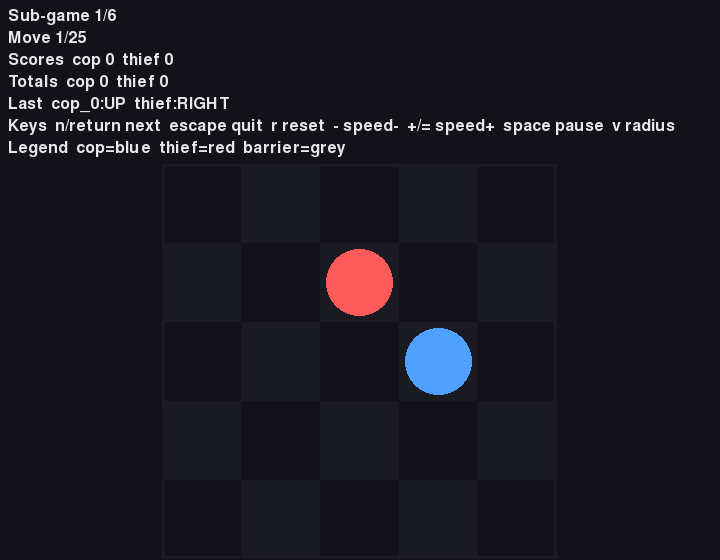
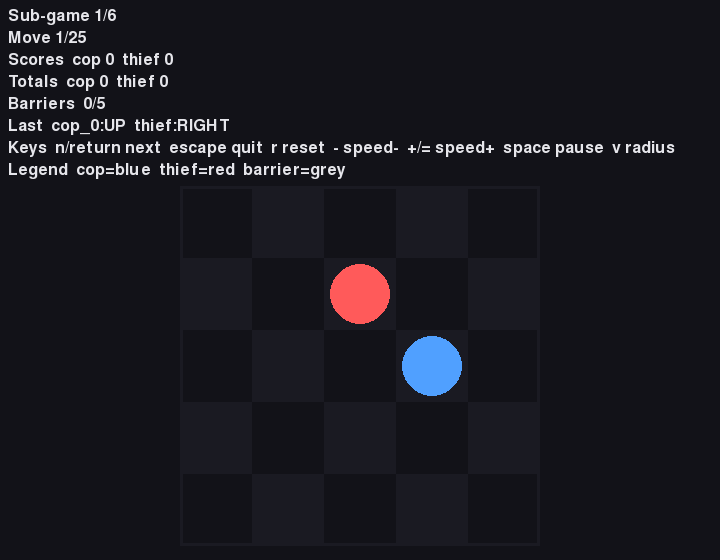
fix(§9.3): the wire-replay screenshots were left on the old GUI
Caught by the question "were ALL the screenshots regenerated?" — they were not. The
previous commit regenerated the 7 under results/screenshots/ but not the 18 §9.3
wire-replay ones under results/screenshots/bonus/, so the README would have shown
§7.3 evidence with the new HUD next to §9.3 evidence with the old one.

Worse, the reason they lacked the barrier line was a wrong assumption of mine, which
I had written into UX.md as fact: I described the wire replay as a source that "does
not know" the budget. It does — wire_replay._frame already reads cfg["game"] for
max_moves and num_games, so it could always have supplied max_barriers. Fixed at the
source rather than by special-casing the screenshots, and UX.md now describes the
default as covering hypothetical budget-less sources, not this real one.

- src/mcp/wire_replay.py: frames carry max_barriers
- all 18 bonus screenshots regenerated (now "Barriers n/5" + the bottom margin)
- a guard asserts BOTH shipping frame sources set the budget, so a third one cannot
  silently render a HUD that differs from the committed evidence

936 tests, 98.74% coverage.

diff --git a/tests/unit/test_gui_polish.py b/tests/unit/test_gui_polish.py
@@ -101,3 +101,20 @@ def test_readme_barrier_caption_matches_the_configured_budget(cfg) -> None:
     for placed, cap in claims:
         assert int(cap) == budget, f"README says /{cap}, config says /{budget}"
         assert int(placed) <= budget, "caption claims more barriers placed than the budget allows"
+
+
+def test_every_real_frame_source_carries_the_barrier_budget(cfg) -> None:
+    """Both shipping frame sources must set max_barriers — the default is for the unknown case.
+
+    The §9.3 wire replay was missed on the first pass: it reads cfg for max_moves and
+    num_games, so it always COULD supply the budget, and its 18 committed screenshots
+    would otherwise render a HUD different from the §7.3 ones.
+    """
+    import inspect  # noqa: PLC0415 - only this guard needs it
+
+    from src.mcp import wire_replay  # noqa: PLC0415
+    from src.services import spectator as spectator_service  # noqa: PLC0415
+
+    for module in (wire_replay, spectator_service):
+        src = inspect.getsource(module)
+        assert "max_barriers=" in src, f"{module.__name__} builds frames without the budget"

diff --git a/src/mcp/wire_replay.py b/src/mcp/wire_replay.py
@@ -48,6 +48,7 @@ def _frame(cfg, env, gid, totals, winner, last) -> SpectatorFrame:  # noqa: PLR0
         totals=dict(totals),
         winner=winner,
         last_action=action_names,
+        max_barriers=int(cfg["game"]["max_barriers"]),
     )
 
 

diff --git a/README.md b/README.md
@@ -9,7 +9,7 @@ end-of-game **Gmail** report.
 
 > **Status: COMPLETE (v1.2.0 — post-audit hardening; 1.1.0 shipped the Minimax-Q bonus).** All phases P0→P11 are implemented — plus a tabular Minimax-Q
 > equilibrium baseline (the L11 §5 self-challenge bonus; see §7.2 + ANALYSIS §10) — tested
-> (935 tests, ≥98% coverage, ruff clean, CI green), and the §7 analysis below is fully authored
+> (936 tests, ≥98% coverage, ruff clean, CI green), and the §7 analysis below is fully authored
 > from a real training run. This README is the submission report (brief §7). Design docs:
 > [`docs/PRD.md`](docs/PRD.md), [`docs/PLAN.md`](docs/PLAN.md), [`docs/TODO.md`](docs/TODO.md).
 
@@ -30,7 +30,7 @@ end-of-game **Gmail** report.
 ```bash
 uv sync --extra gui --group dev --group mcp   # uv-only (no pip/conda) — the SAME line CI runs;
                                               #   add --group mail only for the live report send
-uv run pytest tests/ --cov=src   # quality gates (935 tests, ≥85% coverage)
+uv run pytest tests/ --cov=src   # quality gates (936 tests, ≥85% coverage)
 uv run ruff check src/ tests/ scripts/
 uv run ruff format --check src/ tests/ scripts/
 uv run python scripts/check_file_sizes.py   # every .py ≤150 LOC

diff --git a/docs/UX.md b/docs/UX.md
@@ -21,9 +21,11 @@ previously inferable only by counting grey cells), the **last joint action** (e.
 update every tick; a **capture flash** marks the deciding move. → `grid_5x5.png`,
 `state_barriers.png`.
 
-The budget line is **omitted, not zeroed**, by frame sources that genuinely do not know
-it (wire replay). A HUD reading `Barriers 0/0` would assert a fact the source cannot
-support — silence is the honest rendering.
+Both frame sources that exist — the live spectator session and the §9.3 wire replay —
+carry the budget, so every rendered screenshot shows it. The field nonetheless defaults
+to "unknown", and the HUD then **omits the line rather than zeroing it**: a hand-built or
+future frame source that lacks the budget would otherwise render `Barriers 0/0`, asserting
+a fact it cannot support. Silence is the honest rendering.
 
 ## 2. Match between system and the real world
 The board is a literal grid with intuitive tokens (cop = blue, thief = red,

diff --git a/docs/QUALITY.md b/docs/QUALITY.md
@@ -5,7 +5,7 @@ characteristics, with a concrete A6 artifact for each (no prose-only claims).
 
 ## Functional Suitability
 The system trains CTDE QMIX/VDN/IQL pursuit policies and plays a 6-sub-game match over a
-dual-MCP contract, emailing the §3.5 report. Evidence: 935 tests (happy + error paths)
+dual-MCP contract, emailing the §3.5 report. Evidence: 936 tests (happy + error paths)
 at ≥85% coverage; the §3.5 report passes `report.schema.json` + the derived-totals
 invariants (`src/reporting/schema.py::validate`); F5 reports the IQL/VDN/QMIX comparison —
 VDN the highest mean, IQL the tightest cross-seed spread, QMIX least stable at the 50-round
